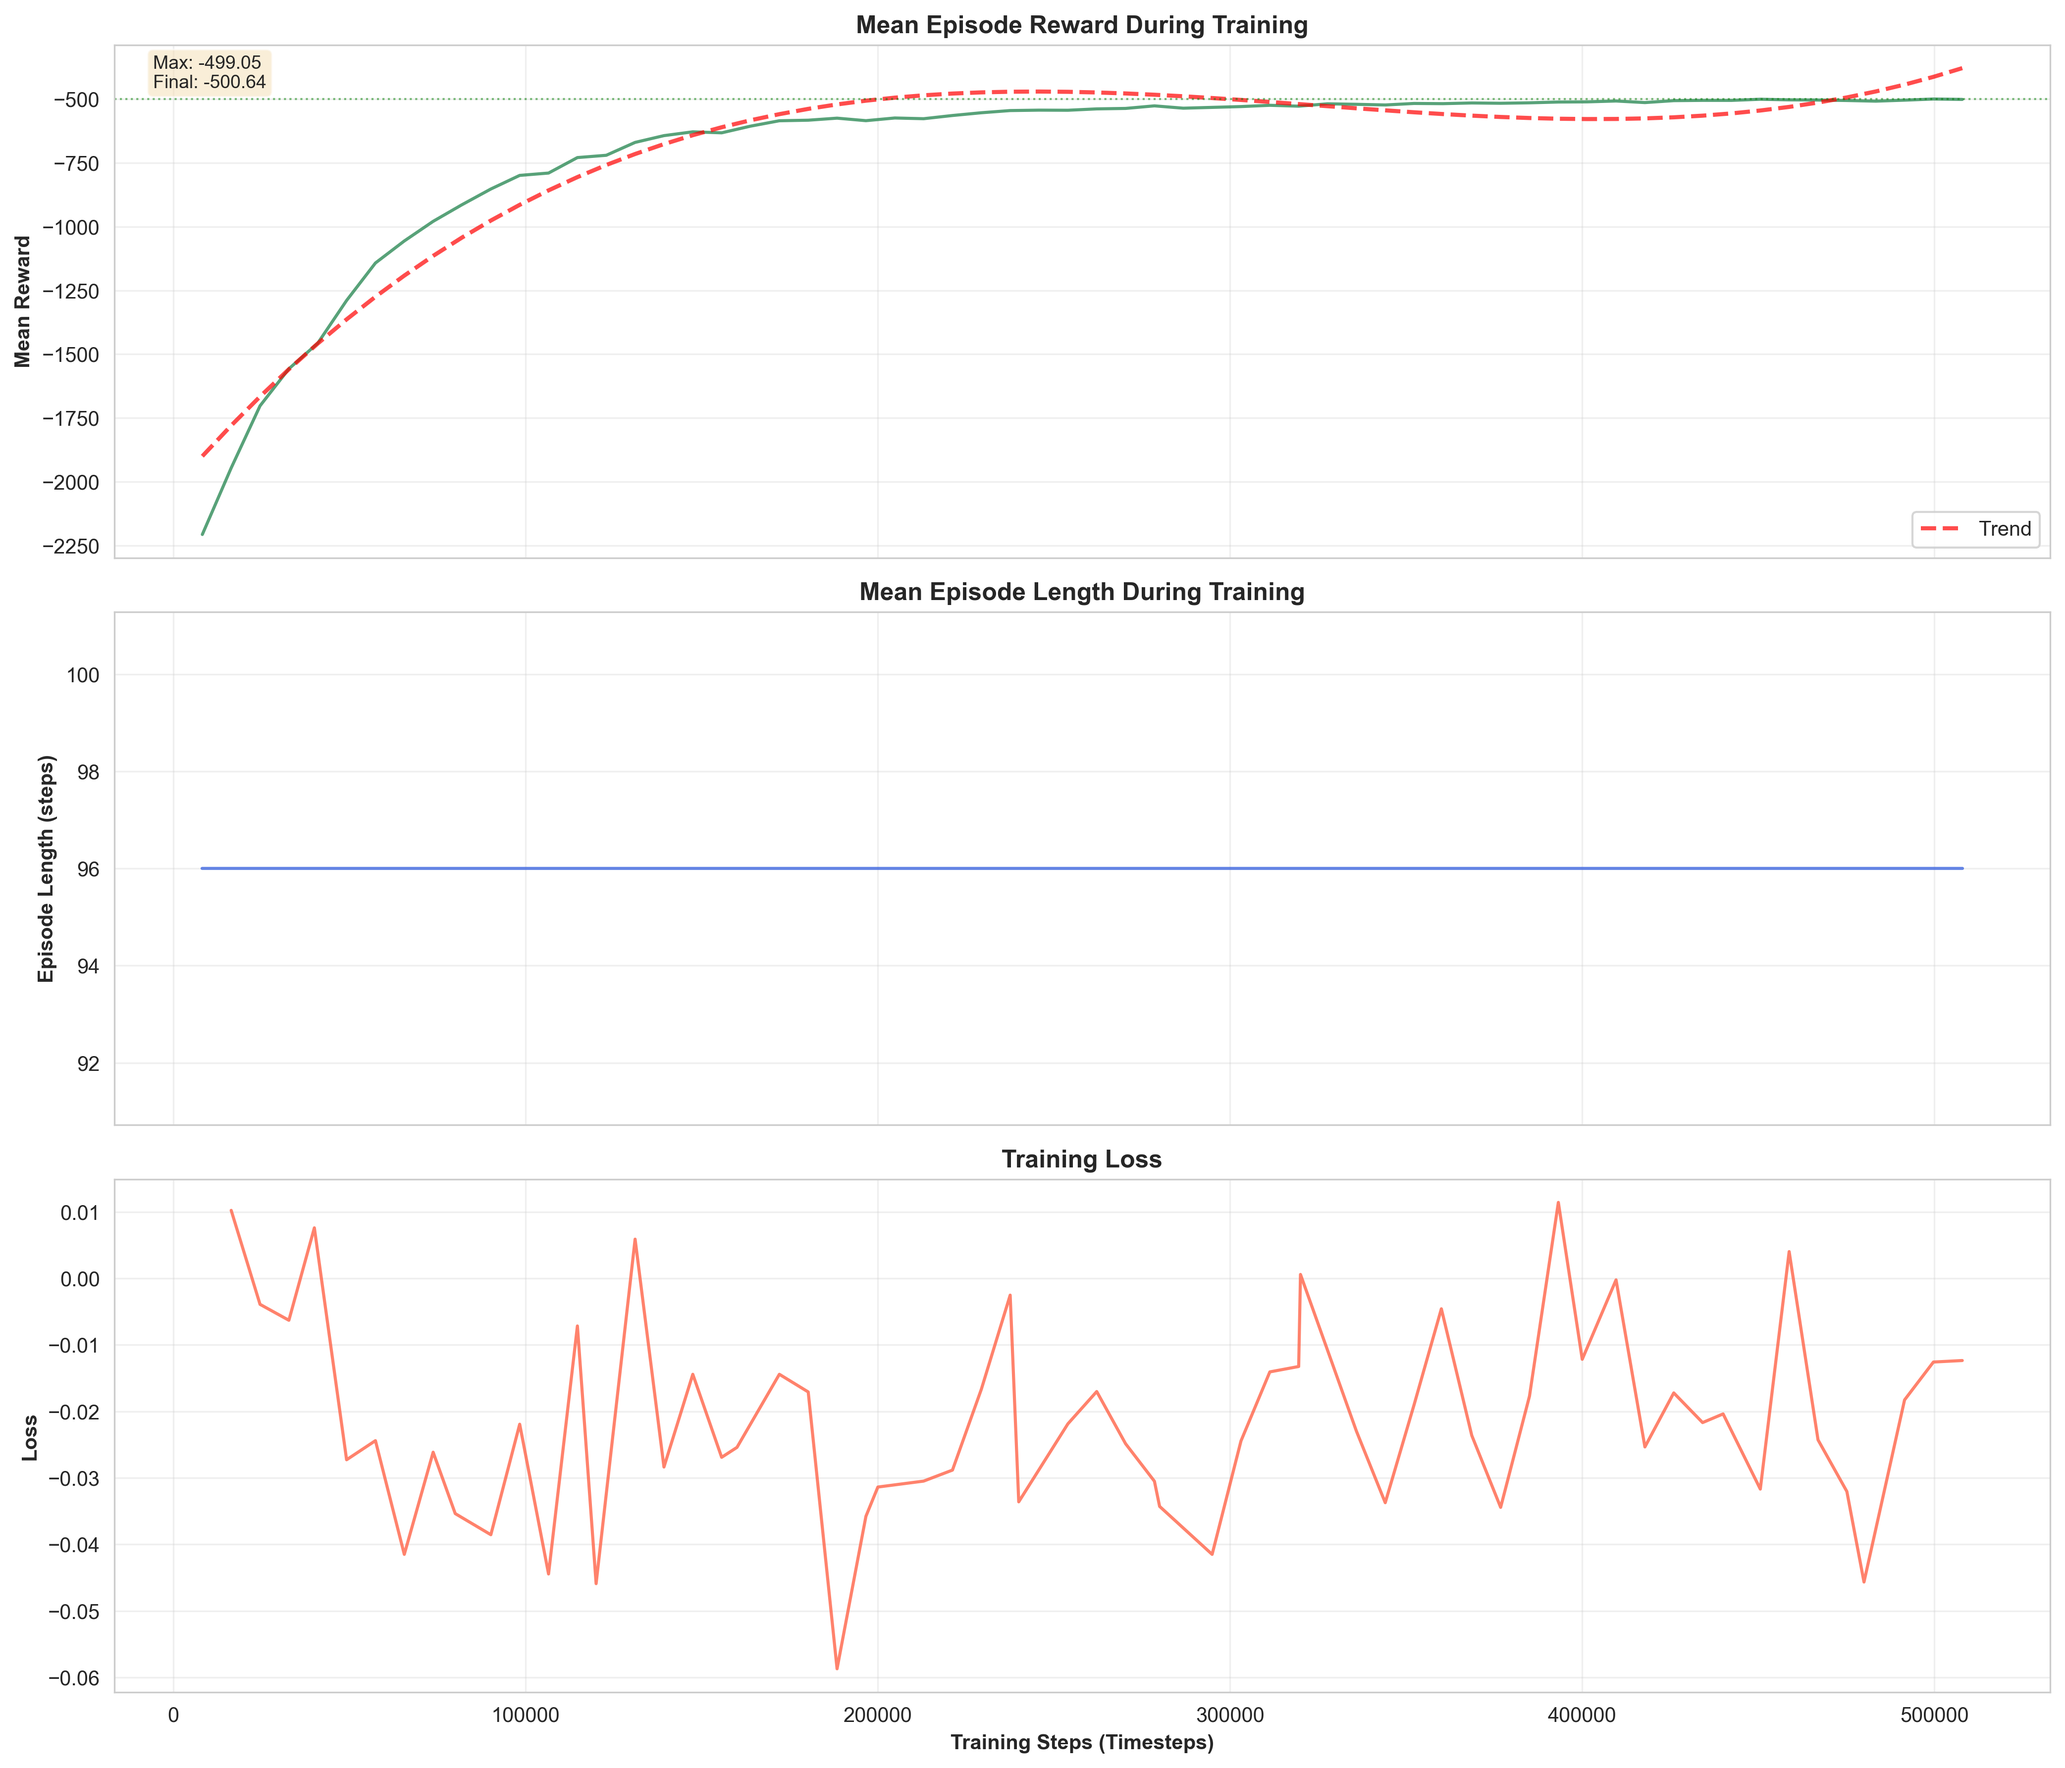
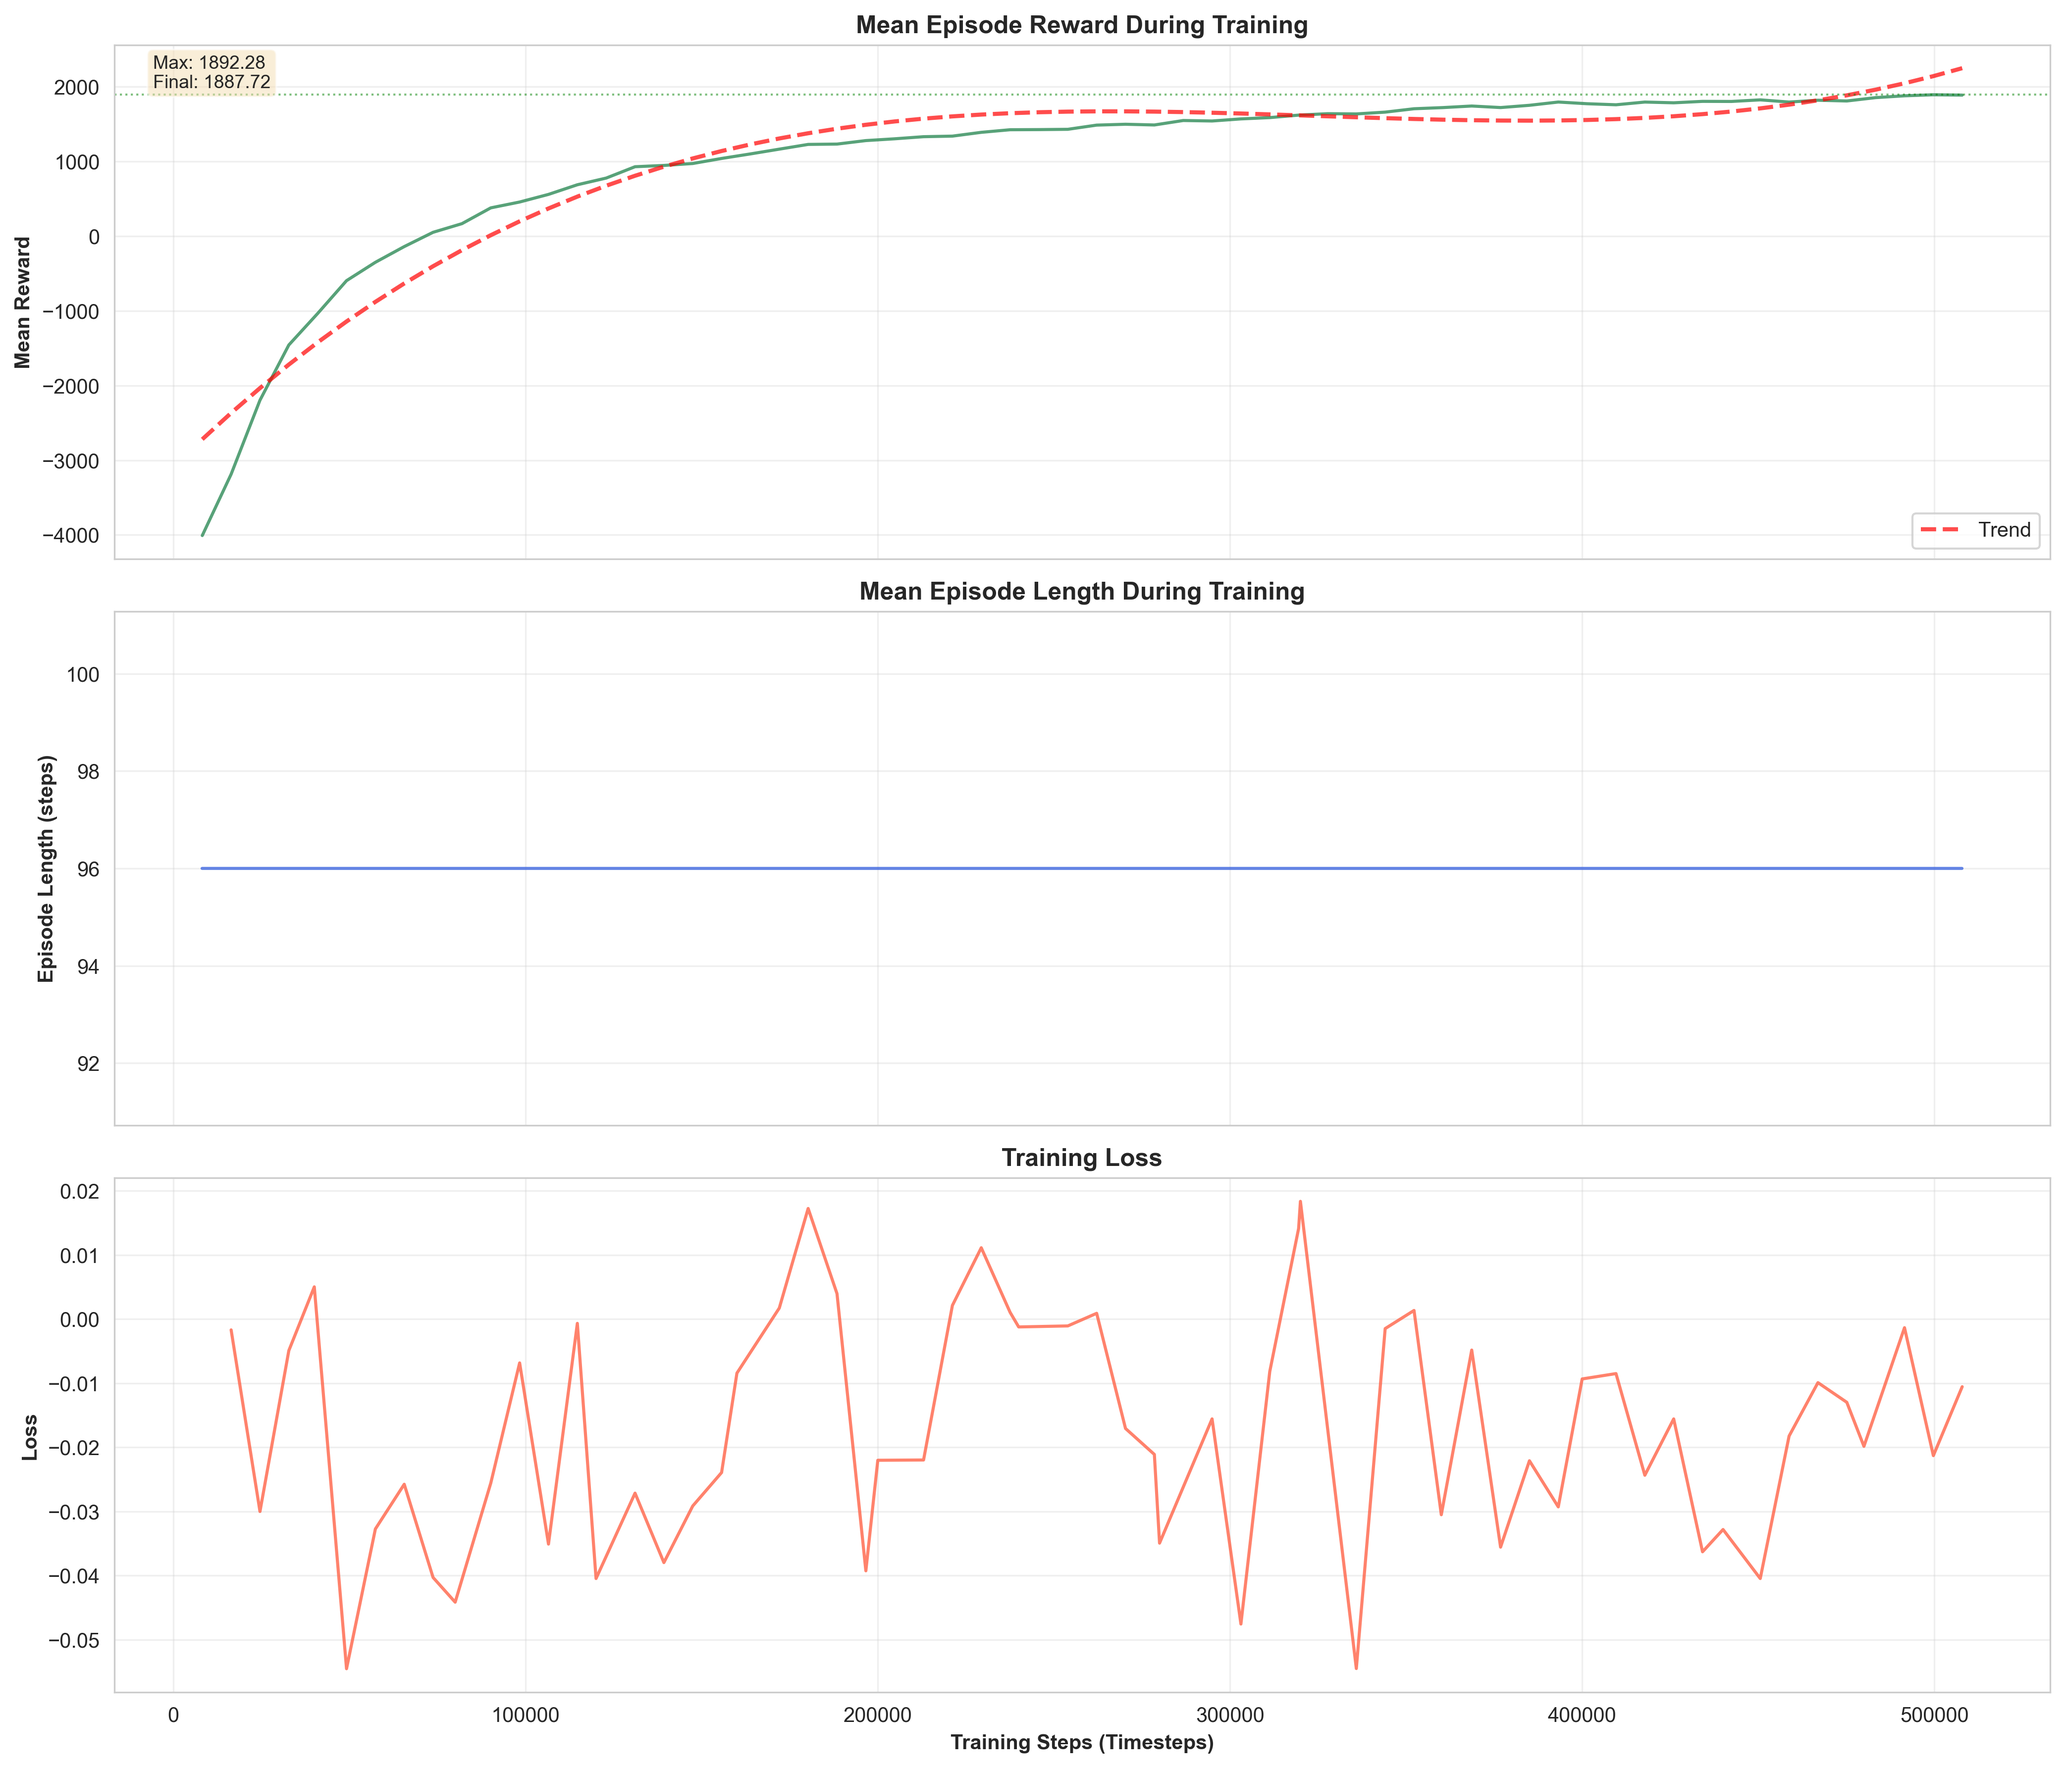
Use script-relative paths, add eval, adjust penalty

diff --git a/RL_agent/train.py b/RL_agent/train.py
@@ -5,6 +5,7 @@ from stable_baselines3.common.vec_env import DummyVecEnv, VecNormalize, SubprocV
 from stable_baselines3.common.callbacks import CheckpointCallback, EvalCallback, CallbackList
 from stable_baselines3.common.monitor import Monitor
 from stable_baselines3.common.logger import configure
+from stable_baselines3.common.evaluation import evaluate_policy
 import os
 import numpy as np
 from vpp_env import UrbanVPPEnv
@@ -40,10 +41,16 @@ def main():
     # Set to None to use the default 'load_forecast.csv' and 'solar_forecast_formatted.csv'
     scenario_name = "solar_unavailable_day"
     
+    # Get script directory to ensure outputs save in RL_agent folder
+    script_dir = os.path.dirname(os.path.abspath(__file__))
+    checkpoint_dir = os.path.join(script_dir, "checkpoints")
+    tensorboard_dir = os.path.join(script_dir, "tensorboard_logs")
+    eval_dir = os.path.join(script_dir, "eval_logs")
+    
     # Safety: Create directories
-    os.makedirs("./checkpoints/", exist_ok=True)
-    os.makedirs("./tensorboard_logs/", exist_ok=True)
-    os.makedirs("./eval_logs/", exist_ok=True)
+    os.makedirs(checkpoint_dir, exist_ok=True)
+    os.makedirs(tensorboard_dir, exist_ok=True)
+    os.makedirs(eval_dir, exist_ok=True)
     
     print(f"[INFO] Checking environment validity for scenario: {scenario_name}...")
     check_env(UrbanVPPEnv(data_path="./data", scenario_name=scenario_name), warn=True)
@@ -55,7 +62,6 @@ def main():
     start_step = start_hour * 4 if start_hour is not None else None
     
     # Get absolute path to data directory for subprocess environments
-    script_dir = os.path.dirname(os.path.abspath(__file__))
     data_path = os.path.join(os.path.dirname(script_dir), "data")
     
     def make_env():
@@ -125,7 +131,7 @@ def main():
         max_grad_norm=0.5,         # Gradient clipping
         policy_kwargs=policy_kwargs,
         seed=42,
-        tensorboard_log="./tensorboard_logs/"
+        tensorboard_log=tensorboard_dir
     )
     
     print("[INFO] PPO model initialized with improved hyperparameters")
@@ -134,7 +140,7 @@ def main():
     # Checkpoint: Save model periodically
     checkpoint_callback = CheckpointCallback(
         save_freq=20_000,          # Save every 20k steps
-        save_path="./checkpoints/",
+        save_path=checkpoint_dir,
         name_prefix="ppo_vpp",
         save_vecnormalize=True     # Save normalization stats with checkpoints
     )
@@ -142,8 +148,8 @@ def main():
     # Evaluation: Track performance on unseen episodes
     eval_callback = EvalCallback(
         eval_env,
-        best_model_save_path="./checkpoints/best_model/",
-        log_path="./eval_logs/",
+        best_model_save_path=os.path.join(checkpoint_dir, "best_model"),
+        log_path=eval_dir,
         eval_freq=10_000,          # Evaluate every 10k steps for better tracking
         n_eval_episodes=10,        # More episodes for robust evaluation
         deterministic=True,        # Use deterministic policy for evaluation
@@ -162,24 +168,53 @@ def main():
     print(f"   Evaluation every: {eval_callback.eval_freq:,} steps")
     print()
     
+    # Track initial reward before training
+    print("[INFO] Evaluating initial performance...")
+    initial_mean_reward, initial_std_reward = evaluate_policy(model, eval_env, n_eval_episodes=10, deterministic=True)
+    print(f"[INITIAL] Mean Reward: {initial_mean_reward:.2f} +/- {initial_std_reward:.2f}")
+    print()
+    
     model.learn(total_timesteps=total_timesteps, callback=callbacks, progress_bar=True)
+
+    # Evaluate final performance
+    print()
+    print("[INFO] Evaluating final performance...")
+    final_mean_reward, final_std_reward = evaluate_policy(model, eval_env, n_eval_episodes=10, deterministic=True)
+    print(f"[FINAL] Mean Reward: {final_mean_reward:.2f} +/- {final_std_reward:.2f}")
+    print()
+    
+    # Print improvement summary
+    improvement = final_mean_reward - initial_mean_reward
+    improvement_pct = (improvement / abs(initial_mean_reward)) * 100 if initial_mean_reward != 0 else 0
+    print("="*60)
+    print("TRAINING SUMMARY")
+    print("="*60)
+    print(f"Initial Mean Reward:  {initial_mean_reward:>10.2f} +/- {initial_std_reward:.2f}")
+    print(f"Final Mean Reward:    {final_mean_reward:>10.2f} +/- {final_std_reward:.2f}")
+    print(f"Improvement:          {improvement:>10.2f} ({improvement_pct:+.1f}%)")
+    print("="*60)
+    print()
 
     # 5. Save Final Model
     model_name = "ppo_vpp_aggregator"
-    model.save(f"./checkpoints/{model_name}")
-    env.save(f"./checkpoints/{model_name}_vecnormalize.pkl")
+    model.save(os.path.join(checkpoint_dir, model_name))
+    env.save(os.path.join(checkpoint_dir, f"{model_name}_vecnormalize.pkl"))
     
     # Also save the best model's normalization stats
-    eval_env.save(f"./checkpoints/best_model/vecnormalize.pkl")
+    eval_env.save(os.path.join(checkpoint_dir, "best_model", "vecnormalize.pkl"))
     
     print()
     print("[OK] Training Complete!")
-    print(f"   Final model: ./checkpoints/{model_name}.zip")
-    print(f"   Best model: ./checkpoints/best_model/best_model.zip")
+    print(f"   Final model: {os.path.join(checkpoint_dir, model_name)}.zip")
+    print(f"   Best model: {os.path.join(checkpoint_dir, 'best_model', 'best_model.zip')}")
     print(f"   Normalization stats saved")
     print()
     print("To view training progress:")
-    print("   tensorboard --logdir=./tensorboard_logs/")
+    print(f"   tensorboard --logdir={tensorboard_dir}")
+    print()
+    print("To plot results:")
+    print("   python plot_training.py  (training reward curve)")
+    print("   python plot_results.py   (simulation results)")
 
 if __name__ == "__main__":
     main()            

diff --git a/RL_agent/plot_results.py b/RL_agent/plot_results.py
@@ -14,9 +14,11 @@ plt.rcParams['figure.dpi'] = 150
 plt.rcParams['font.size'] = 6
 
 # --- CONFIGURATION ---
-MODEL_PATH = os.path.abspath("./checkpoints/best_model/best_model")  # Use best model
-STATS_PATH = os.path.abspath("./checkpoints/best_model/vecnormalize.pkl")  # Normalization stats
-OUTPUT_DIR = os.path.abspath("./results_plots")  # Where to save plots
+# Get script directory for absolute paths
+script_dir = os.path.dirname(os.path.abspath(__file__))
+MODEL_PATH = os.path.join(script_dir, "checkpoints", "best_model", "best_model")  # Use best model
+STATS_PATH = os.path.join(script_dir, "checkpoints", "best_model", "vecnormalize.pkl")  # Normalization stats
+OUTPUT_DIR = os.path.join(os.path.dirname(script_dir), "results_plots")  # Where to save plots
 
 steps_to_plot = 96  # One day (15 min intervals)
 SCENARIO_NAME = "solar_unavailable_day" # Set to same as train.py (e.g. "heatwave_day") or None for default
@@ -32,8 +34,11 @@ os.makedirs(OUTPUT_DIR, exist_ok=True)
 
 # 1. Load the Environment and Model
 print("[INFO] Loading environment and model...")
+# Get absolute path to data directory
+data_path = os.path.join(os.path.dirname(script_dir), "data")
+
 def make_env():
-    return UrbanVPPEnv(data_path="./data", scenario_name=SCENARIO_NAME, start_index=0)
+    return UrbanVPPEnv(data_path=data_path, scenario_name=SCENARIO_NAME, start_index=0)
 
 # Recreate env
 env = DummyVecEnv([make_env])
@@ -46,7 +51,7 @@ try:
 except FileNotFoundError:
     print(f"[WARNING] {STATS_PATH} not found. Trying fallback path...")
     try:
-        STATS_PATH_FALLBACK = "./checkpoints/ppo_vpp_aggregator_vecnormalize.pkl"
+        STATS_PATH_FALLBACK = os.path.join(script_dir, "checkpoints", "ppo_vpp_aggregator_vecnormalize.pkl")
         env = VecNormalize.load(STATS_PATH_FALLBACK, env)
         env.training = False
         env.norm_reward = False
@@ -63,9 +68,10 @@ try:
     print(f"[OK] Model loaded: '{MODEL_PATH}'")
 except FileNotFoundError:
     print(f"[ERROR] Model '{MODEL_PATH}.zip' not found!")
-    print("   Trying fallback: './checkpoints/ppo_vpp_aggregator'")
+    MODEL_PATH_FALLBACK = os.path.join(script_dir, "checkpoints", "ppo_vpp_aggregator")
+    print(f"   Trying fallback: '{MODEL_PATH_FALLBACK}'")
     try:
-        model = PPO.load("./checkpoints/ppo_vpp_aggregator")
+        model = PPO.load(MODEL_PATH_FALLBACK)
         print("[OK] Loaded fallback model")
     except:
         print("[ERROR] No model found. Run train.py first!")

diff --git a/RL_agent/plot_training.py b/RL_agent/plot_training.py
@@ -10,6 +10,9 @@ sns.set_style("whitegrid")
 plt.rcParams['figure.dpi'] = 150
 plt.rcParams['font.size'] = 10
 
+# Get script directory for absolute paths
+script_dir = os.path.dirname(os.path.abspath(__file__))
+
 def parse_tensorboard_logs(log_dir, tags=['rollout/ep_rew_mean', 'rollout/ep_len_mean', 'train/loss']):
     """
     Parse TensorBoard event files and extract training metrics.
@@ -58,7 +61,7 @@ def parse_tensorboard_logs(log_dir, tags=['rollout/ep_rew_mean', 'rollout/ep_len
     return data
 
 
-def find_latest_run(base_dir='./tensorboard_logs'):
+def find_latest_run(base_dir):
     """Find the latest PPO training run directory."""
     ppo_dirs = sorted([d for d in Path(base_dir).iterdir() if d.is_dir() and d.name.startswith('PPO_')],
                       key=lambda p: int(p.name.split('_')[1]))
@@ -218,11 +221,15 @@ def main():
     print("   VPP AGGREGATOR - TRAINING REWARD PLOTTER")
     print("="*60)
     
+    # Set up directories
+    tensorboard_dir = os.path.join(script_dir, 'tensorboard_logs')
+    output_dir = os.path.join(os.path.dirname(script_dir), 'results_plots')
+    
     # Find latest training run
-    latest_run = find_latest_run('./tensorboard_logs')
+    latest_run = find_latest_run(tensorboard_dir)
     
     if not latest_run:
-        print("[ERROR] No training runs found in './tensorboard_logs'")
+        print(f"[ERROR] No training runs found in '{tensorboard_dir}'")
         print("        Run train.py first to generate training data.")
         return
     
@@ -236,14 +243,14 @@ def main():
     
     # Plot training metrics
     print("\n[INFO] Generating training plots...")
-    plot_training_rewards(data, output_dir='./results_plots')
+    plot_training_rewards(data, output_dir=output_dir)
     
     # Optional: Compare multiple runs
     print("\n[INFO] Generating comparison plot for recent runs...")
-    plot_multiple_runs(base_dir='./tensorboard_logs', output_dir='./results_plots', max_runs=5)
+    plot_multiple_runs(base_dir=tensorboard_dir, output_dir=output_dir, max_runs=5)
     
     print("\n" + "="*60)
-    print("   Plotting complete! Check ./results_plots/")
+    print(f"   Plotting complete! Check {output_dir}")
     print("="*60)
 
 

diff --git a/RL_agent/vpp_env.py b/RL_agent/vpp_env.py
@@ -433,7 +433,8 @@ class UrbanVPPEnv(gym.Env):
         
         # Heavy Penalty: -100 per unit of violation
         # Example: 0.01 p.u. deviation → -1 penalty
-        voltage_penalty = -100.0 * total_violation
+        # voltage_penalty = -100.0 * total_violation
+        voltage_penalty = -50.0 * (total_violation ** 2)
 
         # C. Battery Health & Smoothness
         # Penalize rapid power changes to reduce battery stress
